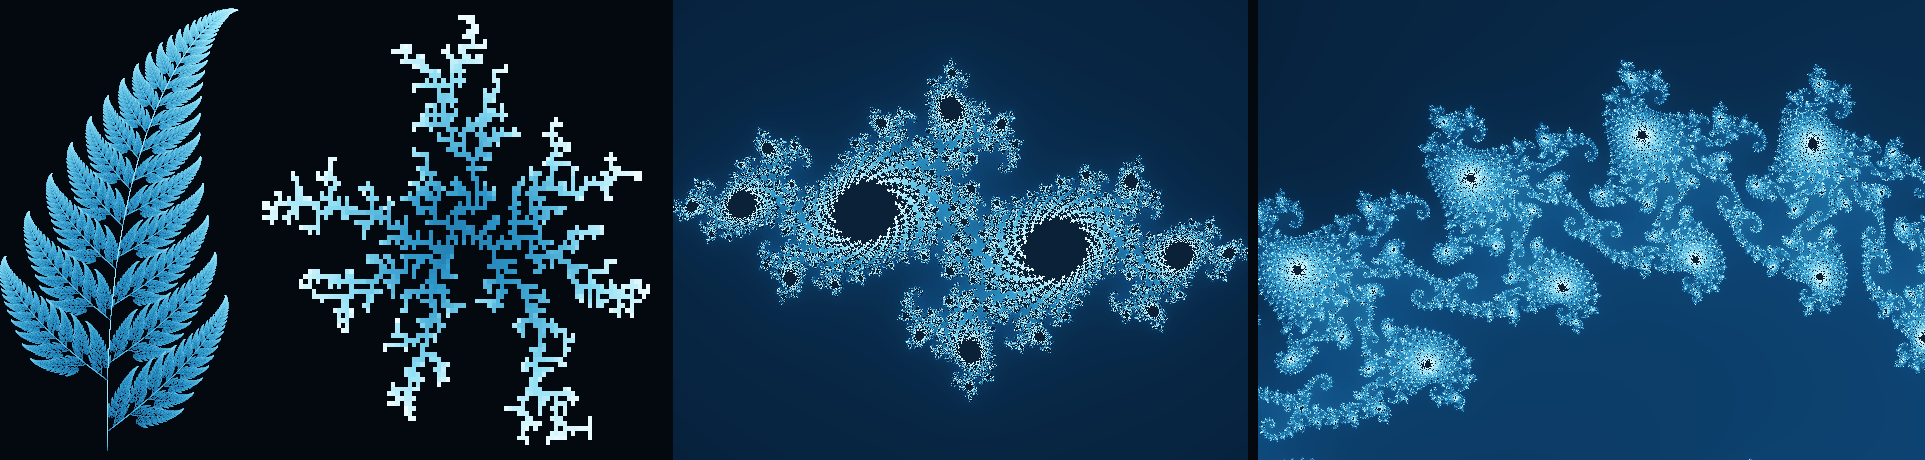
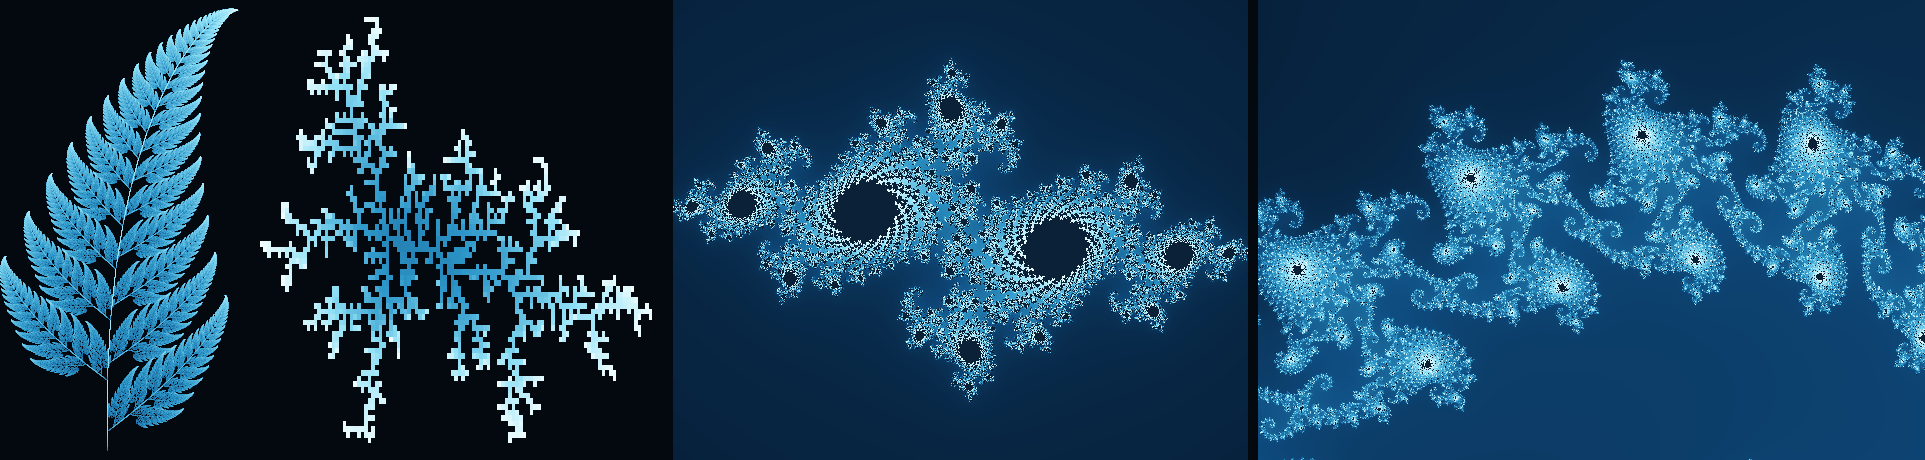
readme fix

Changed region(s): [[0.1247, 0.0304, 0.3429, 0.9739]]

diff --git a/math/01-fractals/tools/readme_banner.py b/math/01-fractals/tools/readme_banner.py
@@ -123,7 +123,20 @@ def breakdown(size: int, sites: int, eta: float = 1.0, sweeps: int = 24, seed: i
             nxt[on] = 0.0
             phi[...] = nxt
 
-    relax(sweeps * 8)
+    # jacobi relaxation carries the boundary value inward one cell a sweep, so
+    # the field does not reach the seed at all until the sweep count passes half
+    # the grid width. short of that the first growth step finds zero field
+    # everywhere and the whole figure comes out blank with no error, so the
+    # settling pass is sized from the grid rather than from the per-step count.
+    settle = max(sweeps * 8, size * 2)
+    relax(settle)
+    mid_field = float(phi[mid - 1, mid])
+    if mid_field <= 0.0:
+        raise RuntimeError(
+            f"the field never reached the seed: {settle} settling sweeps on a "
+            f"{size} grid, which needs more than {size // 2}"
+        )
+
     age = np.zeros((size, size))
     for step in range(sites):
         grown = np.zeros_like(on)
@@ -136,6 +149,10 @@ def breakdown(size: int, sites: int, eta: float = 1.0, sweeps: int = 24, seed: i
         strength = np.where(edge, np.clip(phi, 0, None) ** eta, 0.0)
         total = strength.sum()
         if total <= 0:
+            # stopping here on the first step means nothing was drawn at all,
+            # which is worth an error rather than a blank panel
+            if step == 0:
+                raise RuntimeError("no field at the seed's neighbours on the first step")
             break
         flat = rng.choice(strength.size, p=(strength / total).ravel())
         r, c = divmod(int(flat), size)

diff --git a/README.md b/README.md
@@ -1,136 +1,45 @@
 # web-3d-explore
 
-![four systems from the fractals series, each drawn by the code in this repository](readme/banner.png)
+![fern, dielectric breakdown, a Julia set, the Mandelbrot boundary](readme/banner.png)
 
-<sub>left to right: the Barnsley fern from four affine maps played as a chaos game, a dielectric
-breakdown figure grown from a point through a relaxed field, the Julia set of
-`c = -0.7269 + 0.1889i`, and the Mandelbrot boundary at Seahorse Valley. all four are output of
-`math/01-fractals/tools/readme_banner.py`, which rebuilds this image in five seconds.</sub>
-
-two independent tracks live here. they share no code and do not depend on each other.
-
----
+two independent tracks. they share no code.
 
 ## math/
 
-written and animated content on mathematics and neural-network foundations, aimed at making the
-subject visually and intuitively clear to a general audience. a subject is a **topic**, topics are
-numbered in reading order, and the words "lesson" and "class" appear nowhere.
+animated content on mathematics and neural-network foundations. one subject is a topic.
 
 | topic | subject | state |
 |---|---|---|
-| 1 | fractals | built: 69 clips, about twenty minutes |
+| 1 | fractals | 69 clips, about 20 minutes |
 | 2 | differential equations, attractors and chaos | planned |
 | 3 | calculus into a first neural network | planned |
 | 4 | tokens, embeddings and generation | planned |
 
-topic 1 is the fractal part of topic 2's subject, built first and out of order. it stands alone
-because the series introduces the complex plane from scratch rather than relying on anything
-earlier.
-
-### math/01-fractals/ - the video series
-
-eleven topic modules built with [ManimCE](https://www.manim.community/) 0.20.1, rendered at 480p15
-preview quality. every number that appears on screen is computed by the scene that shows it and
-printed as returned; none are typed in. a dimension quoted in a clip is a dimension the code
-measured.
-
-what the series covers, in order: the coastline paradox met as a measurement rather than a riddle,
-box-counting dimension checked twice before it is trusted, the Koch curve as an idealised
-coastline, the Barnsley fern and iterated function systems, the wider geometric family from Cantor
-to the Menger sponge, random growth by dielectric breakdown and by diffusion-limited aggregation,
-the complex plane built from nothing, escape-time dynamics and the Julia and Mandelbrot sets, the
-boundary under magnification, and a closing analytical layer that derives the dimension formulas
-and states the Hausdorff definition.
+**`math/01-fractals/`** - the video series. eleven modules, ManimCE 0.20.1 at 480p15. every number
+on screen is computed by the scene that shows it.
 
 ```sh
 cd math/01-fractals
-python -m venv .venv && source .venv/bin/activate
 pip install -r code2/requirements.txt
-
-manim -pql code2/topic05.py FernIFS          # one scene, previewed
-manim -ql code2/topic05.py                   # every scene in a module
+manim -pql code2/topic05.py FernIFS
 ```
 
-`manim` also needs a working `ffmpeg` and a LaTeX installation for the equation rendering.
-
-three tools sit beside the scene code:
-
-- `code2/sheet.py` builds a contact sheet of stills from a rendered clip, so a whole beat can be
-  judged at once instead of scrubbed.
-- `code2/layoutcheck.py` walks a clip frame by frame and reports text that runs off frame, text
-  overlapping other text, text sitting on drawn shapes, and text sitting on an image. it found
-  eight real layout faults that reading the code had not.
-- `tools/fernplay.html` is a single self-contained page with sliders for six systems: iterated
-  function systems, L-systems, dielectric breakdown, diffusion-limited aggregation, Julia sets and
-  the Mandelbrot set. no build step, no dependencies, open it in a browser.
-
-the rendered clips and manim's intermediate output are not in the repository. every clip is
-produced from `code2/` by one command, so what is kept is what makes them.
-
-### math/web-math-fr/ - the website
-
-the same material as pages that can be moved rather than watched, plus the series read as one
-continuous page with the reasoning beside each clip.
-
-| | |
-|---|---|
-| backend | Python 3.12, FastAPI, SQLAlchemy, alembic, PostgreSQL 18, argon2, numpy, Pillow, managed with `uv` |
-| frontend | React 19, Vite, TypeScript, TanStack Router, Tailwind v4, zustand, three.js, KaTeX |
-| tests | 45 on the backend against a real PostgreSQL, 83 on the frontend |
-
-seven systems have their own page, each carrying its equations, its parameters as controls, a
-palette that can be changed, and the dimension measured from whatever is on screen: iterated
-function systems, L-systems, dielectric breakdown, diffusion-limited aggregation, Julia sets, the
-Mandelbrot set, and the three-dimensional set.
-
-**every calculation that a slider moves runs in the browser.** the escape-time views and the
-three-dimensional solid are fragment shaders; the point systems, the rewriting systems and the two
-growth models are plain typed code. this is not a cost decision. a server-rendered escape-time
-frame at 800 pixels and 300 iterations takes about two seconds, and the same frame on the visitor's
-graphics card takes a few milliseconds; no budget turns the first into something a slider can be
-dragged against.
-
-one websocket route exists, for the one job that needs it. single precision on a graphics card
-carries about seven significant digits, so a browser zoom into the Mandelbrot boundary goes blocky
-somewhere past a magnification of 10<sup>5</sup>. past that point the page hands the view to the
-server, which renders in double precision and streams four passes back, each four times finer than
-the last. measured at 2.1 million times on a 700 by 620 view: first pass on screen at 51 ms, full
-resolution at 1.6 s, and the socket closed at 1.63 s, because capacity is allocated for as long as
-a connection is held whether or not it is computing.
+**`math/web-math-fr/`** - the site. FastAPI, PostgreSQL, alembic, `uv`; React 19, Vite, TypeScript,
+three.js. seven systems with sliders and equations. every calculation a slider moves runs in the
+browser; one websocket route handles Mandelbrot zooms past 10<sup>5</sup>, where single precision
+on the graphics card runs out.
 
 ```sh
-cd math/web-math-fr/math-fr-be
-docker compose up -d --build        # database on 1586, api on 1585
-uv sync && uv run pytest            # needs DB_PASSWORD set
-
-cd ../math-fr-fe
-npm ci && npm run dev               # site on 1263
+cd math/web-math-fr/math-fr-be && docker compose up -d --build   # api 1585, db 1586
+cd ../math-fr-fe && npm ci && npm run dev                        # site 1263
 ```
-
-the backend comes up from a clean checkout with no environment file present: every setting has a
-default, the migrations apply on boot, and no value has to be filled in first. non-default ports
-throughout, so nothing collides with whatever else is running.
-
-with the backend stopped, every play page still draws its fractal and says what is missing rather
-than failing, because the mathematics is client-side and only the served text is not.
-
----
 
 ## web-s-r/
 
-experiments with real-time web transport and 3D rendering. expected stacks: websockets, webrtc,
-three.js, plus whichever backend a given experiment needs. focus areas are fast processing of large
-data volumes and rendering at roughly 30 fps under per-request update pressure. nothing is built
-here yet.
+real-time web transport and 3D rendering. websockets, webrtc, three.js. nothing built yet.
 
 ---
 
-## conventions
-
-- short hyphen only. no em-dash, no en-dash.
-- impersonal voice in documents and comments.
-- no emoji.
-- the fixed colour code across every clip in the series: the object under discussion is blue,
-  rulers and scale factors are gold, the dimension is green, and a quantity that runs away without
-  bound is coral.
+rendered clips and manim's intermediate output are not in the repository; every clip comes from
+`code2/` by one command. the banner is rebuilt by
+`python math/01-fractals/tools/readme_banner.py`.
